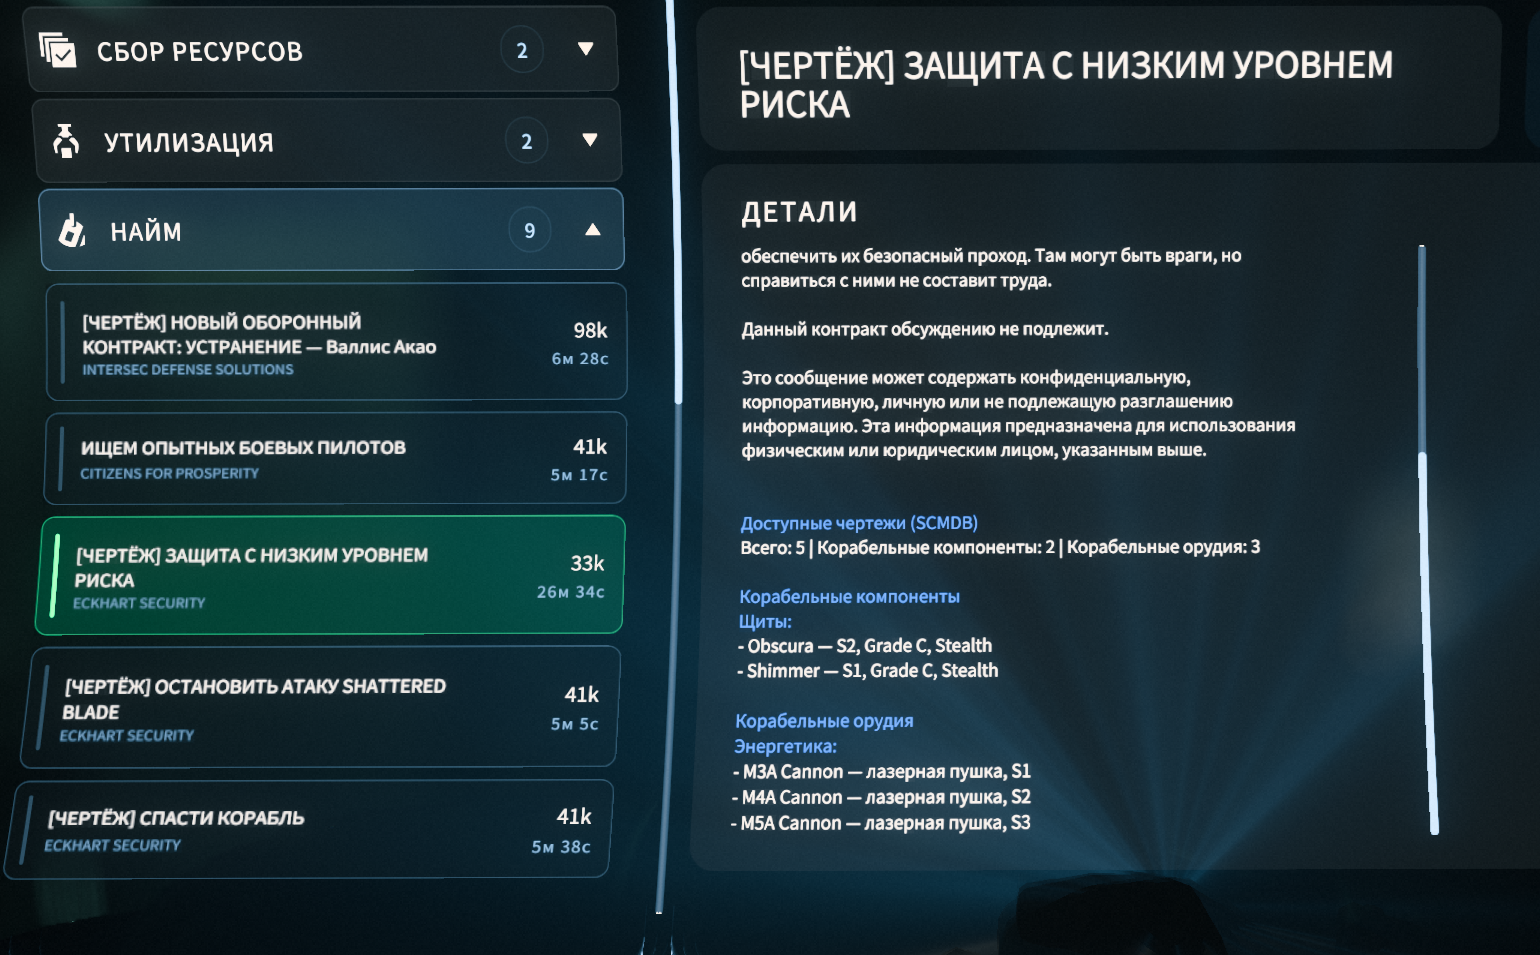
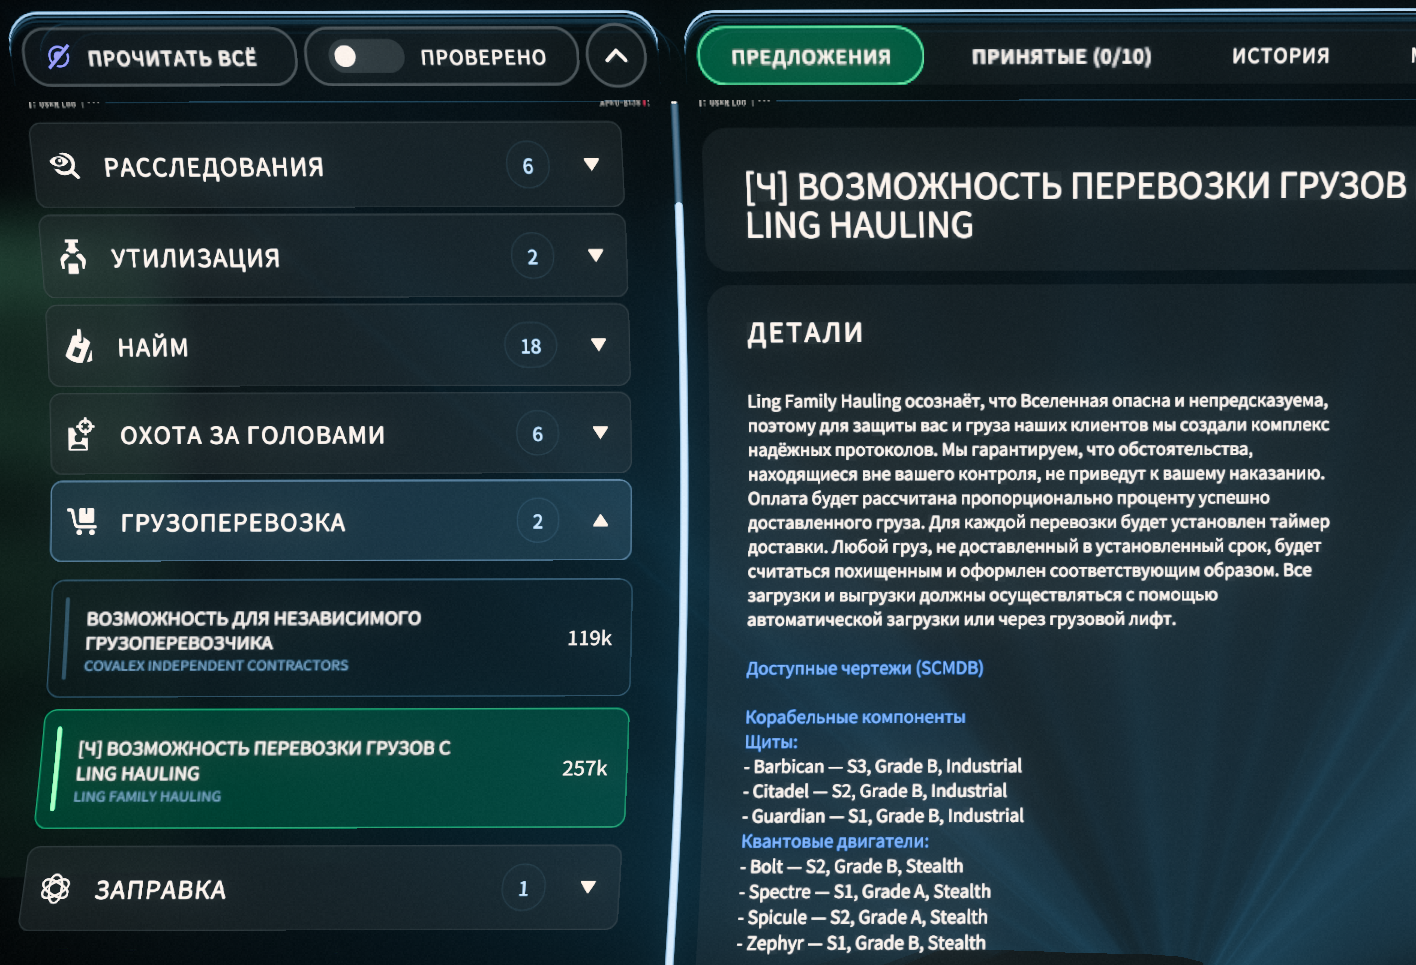
Release Star Citizen patcher v2.2.0

diff --git a/StarCitizen/SCMDB_Quest_Recipe_Patcher/README.md b/StarCitizen/SCMDB_Quest_Recipe_Patcher/README.md
@@ -1,12 +1,12 @@
 # SCMDB Quest Recipe Patcher
 
-Патчер показывает в контрактах Star Citizen, какие чертежи/рецепты можно получить за миссию.
+Патчер показывает в контрактах Star Citizen, какие чертежи/рецепты можно получить за миссию, где встречаются пилоты-асы и где дают обменные scrip/coin-награды.
 Также он добавляет внутриигровые крафт-подсказки в карту Mobiglas.
 
 ## Установка
 
 1. Установите русский перевод [RuSC](https://www.expanseunion.com/sc/locru).
-2. Скачайте `SCMDB_Quest_Recipe_Patcher_v2.1.1.zip` на странице [Releases](https://github.com/johnniewalker89/my-game-modding/releases/tag/v2.1.1).
+2. Скачайте `SCMDB_Quest_Recipe_Patcher_v2.2.0.zip` на странице [Releases](https://github.com/johnniewalker89/my-game-modding/releases/tag/v2.2.0).
 3. Распакуйте архив в любую удобную папку.
 4. Запустите `SCMDB_Quest_Recipe_Patcher.bat`.
 5. В открывшемся окне выберите папку `StarCitizen\LIVE`.
@@ -45,11 +45,17 @@ StarCitizen\LIVE\data\Localization\korean_(south_korea)\global.ini
 
 ## Что будет в игре
 
-В списке контрактов у заданий с наградами-чертежами появится префикс:
+В списке контрактов у полезных заданий появятся короткие метки:
 
 ```text
-[ЧЕРТЁЖ]
+[Ч] <EM4>[А]</EM4> [С]
 ```
+
+Порядок меток всегда такой:
+
+- `[Ч]` — задание даёт чертёж/рецепт SCMDB;
+- `<EM4>[А]</EM4>` — в задании может встретиться пилот-ас;
+- `[С]` — задание даёт scrip/coin-награду для обмена у Wikelo.
 
 Внизу описания контракта появится блок с рецептами:
 

diff --git a/StarCitizen/SCMDB_Quest_Recipe_Patcher/RELEASES.md b/StarCitizen/SCMDB_Quest_Recipe_Patcher/RELEASES.md
@@ -1,5 +1,13 @@
 # SCMDB Quest Recipe Patcher Releases
 
+## v2.2.0
+
+- метка чертежей в списке контрактов сокращена с `[ЧЕРТЁЖ]` до `[Ч]`;
+- добавлена метка `<EM4>[А]</EM4>` для контрактов с опциональным пилотом-асом (`AcePilot`);
+- добавлена метка `[С]` для контрактов с обменной scrip/coin-наградой, включая `MG Scrip` и `Council Scrip`;
+- порядок меток в названии контракта: `[Ч] <EM4>[А]</EM4> [С]`;
+- launcher показывает статистику новых меток в сводке отчёта.
+
 ## v2.1.1
 
 - кнопка launcher `Проверить` заменена на быструю `Проверить путь`;

diff --git a/StarCitizen/README.md b/StarCitizen/README.md
@@ -6,10 +6,10 @@
 
 ### SCMDB Quest Recipe Patcher
 
-Показывает в контрактах, какие чертежи/рецепты можно получить за миссию.
+Показывает в контрактах, какие чертежи/рецепты можно получить за миссию, где встречаются пилоты-асы и где дают обменные scrip/coin-награды.
 
 1. Установите русский перевод [RuSC](https://www.expanseunion.com/sc/locru).
-2. Скачайте `SCMDB_Quest_Recipe_Patcher_v2.1.1.zip` на странице [Releases](https://github.com/johnniewalker89/my-game-modding/releases/tag/v2.1.1).
+2. Скачайте `SCMDB_Quest_Recipe_Patcher_v2.2.0.zip` на странице [Releases](https://github.com/johnniewalker89/my-game-modding/releases/tag/v2.2.0).
 3. Распакуйте архив.
 4. Запустите `SCMDB_Quest_Recipe_Patcher.bat`.
 5. Выберите папку `StarCitizen\LIVE` и нажмите `Пропатчить`.
@@ -22,4 +22,4 @@
 
 ![Список корабельных компонентов и орудий](SCMDB_Quest_Recipe_Patcher/docs/images/scmdb-recipe-patcher-components.png)
 
-![Подсказки крафта на карте Mobiglas: microTech](SCMDB_Quest_Recipe_Patcher/docs/images/scmdb-recipe-patcher-planet-hints-microtech.png)
+![Подсказки крафта на карте Mobiglas: Lyria](SCMDB_Quest_Recipe_Patcher/docs/images/scmdb-recipe-patcher-planet-hints-lyria.png)